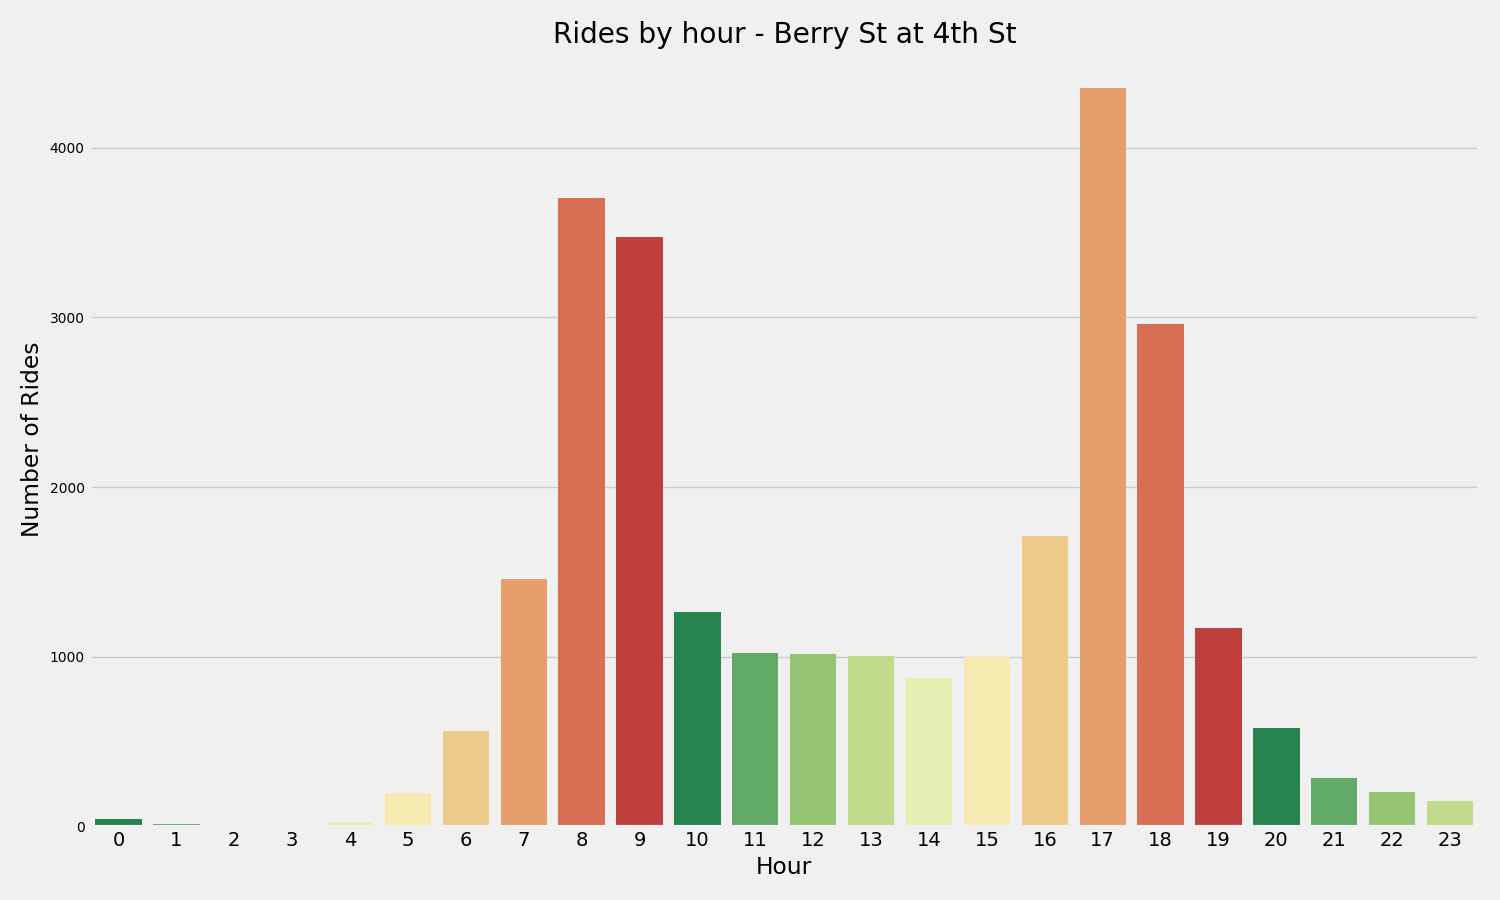
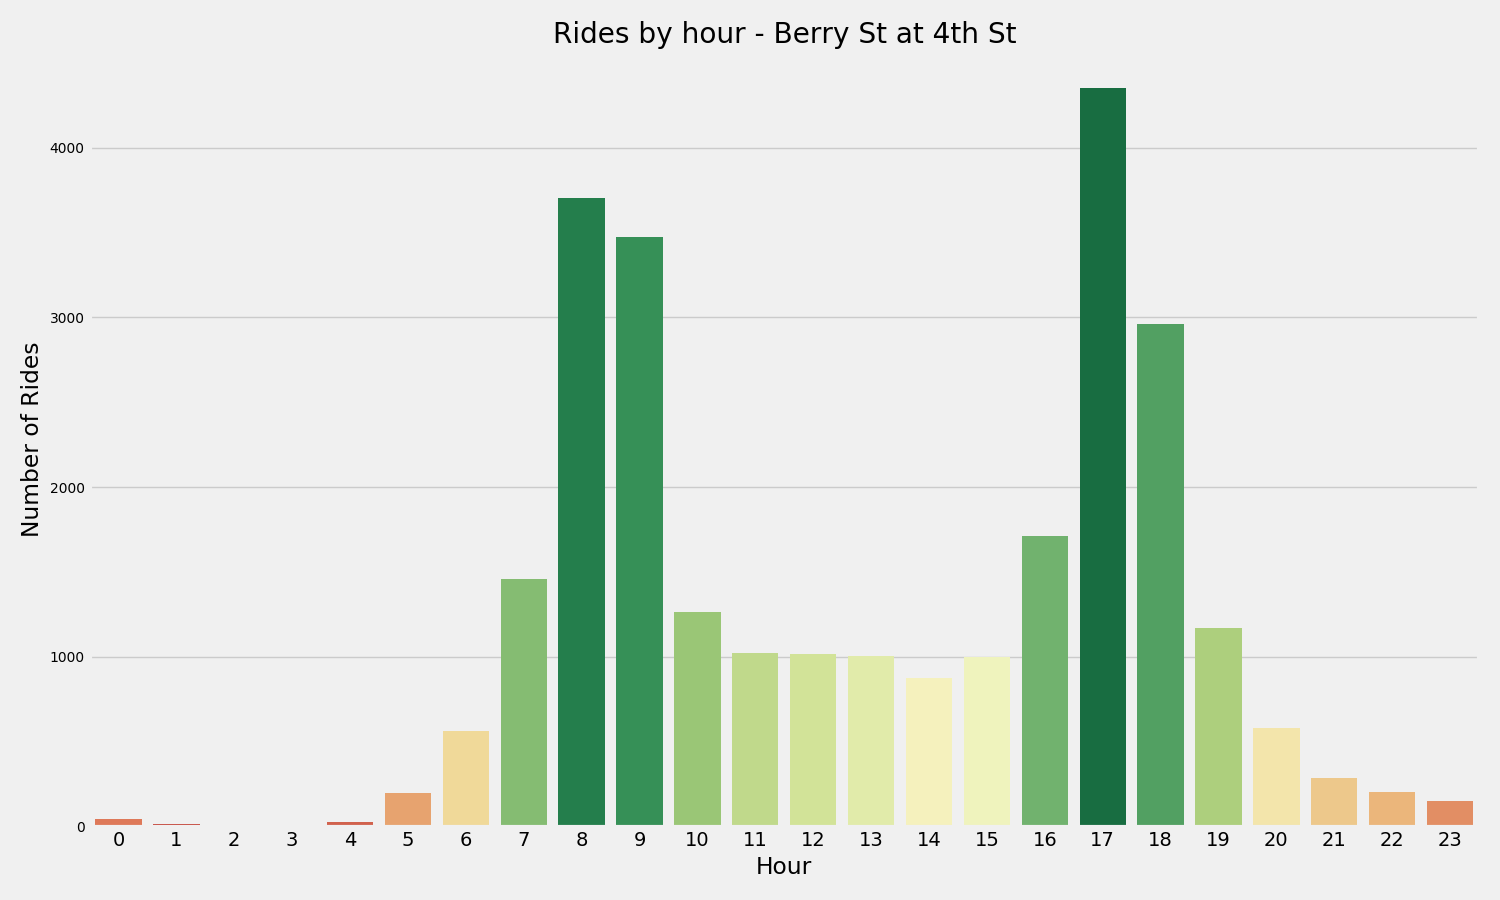
Fixing some fragile code

Changed region(s): [[0.2453, 0.2178, 0.6133, 0.9333], [0.6747, 0.0933, 0.9813, 0.9333], [0.0613, 0.9022, 0.092, 0.9333]]

diff --git a/Ford_GoBike/analysis.py b/Ford_GoBike/analysis.py
@@ -80,8 +80,8 @@ def weekday_net_bars(df, top_n, output_dir, save):
       title='Top stations by bike surplus and deficit',
       xlab='Net Bikes',
       ylab='Station Name',
-      day=str(day),
       output_dir=output_dir+'Net Bikes by Weekday/'+'Total/',
+      suffix=str(day),
       save=save,
       orientation='h')
 
@@ -102,8 +102,8 @@ def weekday_net_bars(df, top_n, output_dir, save):
         title=' '.join([user,'top stations by bike surplus and deficit']),
         xlab='Net Bikes',
         ylab='Station Name',
-        day=str(day),
         output_dir=output_dir+'Net Bikes by Weekday/'+user+'/',
+        suffix=str(day),
         save=save,
         orientation='h')
 
@@ -119,7 +119,7 @@ def hour_sum_bars(df, stations, output_dir, save, split_user=False):
         plotting.bar_wrapper(df=hour_df,
           x='start_hour',
           y='rides',
-          title= ' - '.join(['Rides by hour',station]),
+          title= 'Rides by hour',
           xlab='Hour',
           ylab='Number of Rides',
           output_dir=output_dir+ user +'/',
@@ -127,13 +127,11 @@ def hour_sum_bars(df, stations, output_dir, save, split_user=False):
           suffix=station,
           orientation='v')
     else:
-      o_dir = output_dir + 'All Users/'
       hour_df = station_df.groupby('start_hour')['bike_id'].count().reset_index(name='rides')
-      print(station, hour_df)
       plotting.bar_wrapper(df=hour_df,
         x='start_hour',
         y='rides',
-        title= ' - '.join(['Rides by hour',station]),
+        title= 'Rides by hour',
         xlab='Hour',
         ylab='Number of Rides',
         output_dir=output_dir+'Total/',
@@ -141,22 +139,22 @@ def hour_sum_bars(df, stations, output_dir, save, split_user=False):
         suffix=station,
         orientation='v')
 
-def station_analysis(df, region, save_run):
+def station_analysis(df, region, output_dir, save_run):
   '''
   Performs analysis on stations based on ridership for dates and net bikes at stations for weekdays
   Args:
     - df        (DataFrame): The DataFrame from the pickled object
     - region    (String)   : The region to analyze (San Francisco, East Bay, South Bay)
+    - output_dir  (String)   : Base directory for this set of charts
     - save_run  (Boolean)  : If true, saves all charts, otherwise displays them
   '''
-  df = pickler()
   if not os.path.exists(output_dir):
     os.mkdir(output_dir)
   stations = list(df['start_station_name'].unique())
   df['date'] = df['start_time'].dt.date
   df['day_of_week'] = pd.Categorical(df['day_of_week'], ordered_days)
   df = df[df['region'] == region]
-  output_dir += cur_region + '/'
+  output_dir += region + '/'
 
   '''
   Create two aggregated DataFrames that each groups by date and station (pick up and drop off)
@@ -191,13 +189,13 @@ def station_analysis(df, region, save_run):
   top_deficit = grouped.tail(top_n)
 
   # Plotting out, by weekday, what stations have the most surplus or deficit
-  weekday_analysis(joint_df, top_n, output_dir, save_run)
+  weekday_net_bars(joint_df, top_n, output_dir, save_run)
 
   # For the top_n stations by ridership, plots the ridership for those stations by hour
   top_n = 10
   temp = df.groupby(['start_station_name'])['bike_id'].count().reset_index(name='total_rides').sort_values('total_rides', ascending=False)
   station_list = list(temp.head(top_n)['start_station_name'])
-  hour_sum_bars(df,station_list,output_dir=output_dir+'Rides by hour/',save=save_run, split_user=True)
+  hour_sum_bars(df,station_list,output_dir=output_dir+'Rides by hour/',save=save_run, split_user=False)
 
   '''Get the top N stations by date that have the most surplus or deficit of bikes'''
   sorted_joint_df = joint_df.sort_values(['date','net_bikes']).groupby('date')['start_station_name', 'net_bikes']
@@ -228,7 +226,7 @@ def distribution_analysis(df,inds,dep,titles,hues,xlabs,ylab,output_dir,save):
       title=title,
       output_dir=output_dir,
       save=True,
-      suffix=title,
+      suffix=None,
       outliers=False,
       hue=hue,
       order=age_bins if x=='age_range' else None)
@@ -240,7 +238,7 @@ def distribution_analysis(df,inds,dep,titles,hues,xlabs,ylab,output_dir,save):
       title=title,
       output_dir=output_dir,
       save=True,
-      suffix=title,
+      suffix=None,
       outliers=False,
       hue=hue,
       order=age_bins if x=='age_range' else None)
@@ -333,17 +331,17 @@ if __name__ == '__main__':
   # aggregate_plots(df)
 
   #Calculate some generic statistics
-  print(df.groupby('user_type').median()['duration'])
-  print(df.groupby('gender').size())
-  print(df.groupby('day_of_week').size())
+
   user_dayofweek = df.groupby(['user_type','day_of_week']).size()
   temp = user_dayofweek.unstack()
   temp = temp[['Monday', 'Tuesday', 'Wednesday', 'Thursday', 'Friday', 'Saturday', 'Sunday']]
   user_dayofweek = temp.stack()
-  print(user_dayofweek)
 
   #Analysis of net bikes at stations within a given region
-  # station_analysis(df, 'San Francisco', save_run)
+  print('Processing stations...')
+  station_analysis(df, 'San Francisco',output_dir,save_run)
+  print('Stations complete.')
+  sys.exit()
 
   #Of 1,338,864 rides, roughly 125,000 are missing data on birth_year and gender. We'll drop those
   numerical_df = df.copy()

diff --git a/Ford_GoBike/plotting.py b/Ford_GoBike/plotting.py
@@ -20,6 +20,8 @@ def bar_wrapper(df,x,y,title,xlab,ylab,output_dir,save=True,hue=None,suffix=None
   '''
 
   fig = plt.figure(figsize = (15,9))
+  if suffix:
+    title = ' - '.join([title,suffix])
   if orientation == 'v':
     pal = sns.color_palette("RdYlGn_r", len(df[x]))
     rank = df[y].argsort().argsort()
